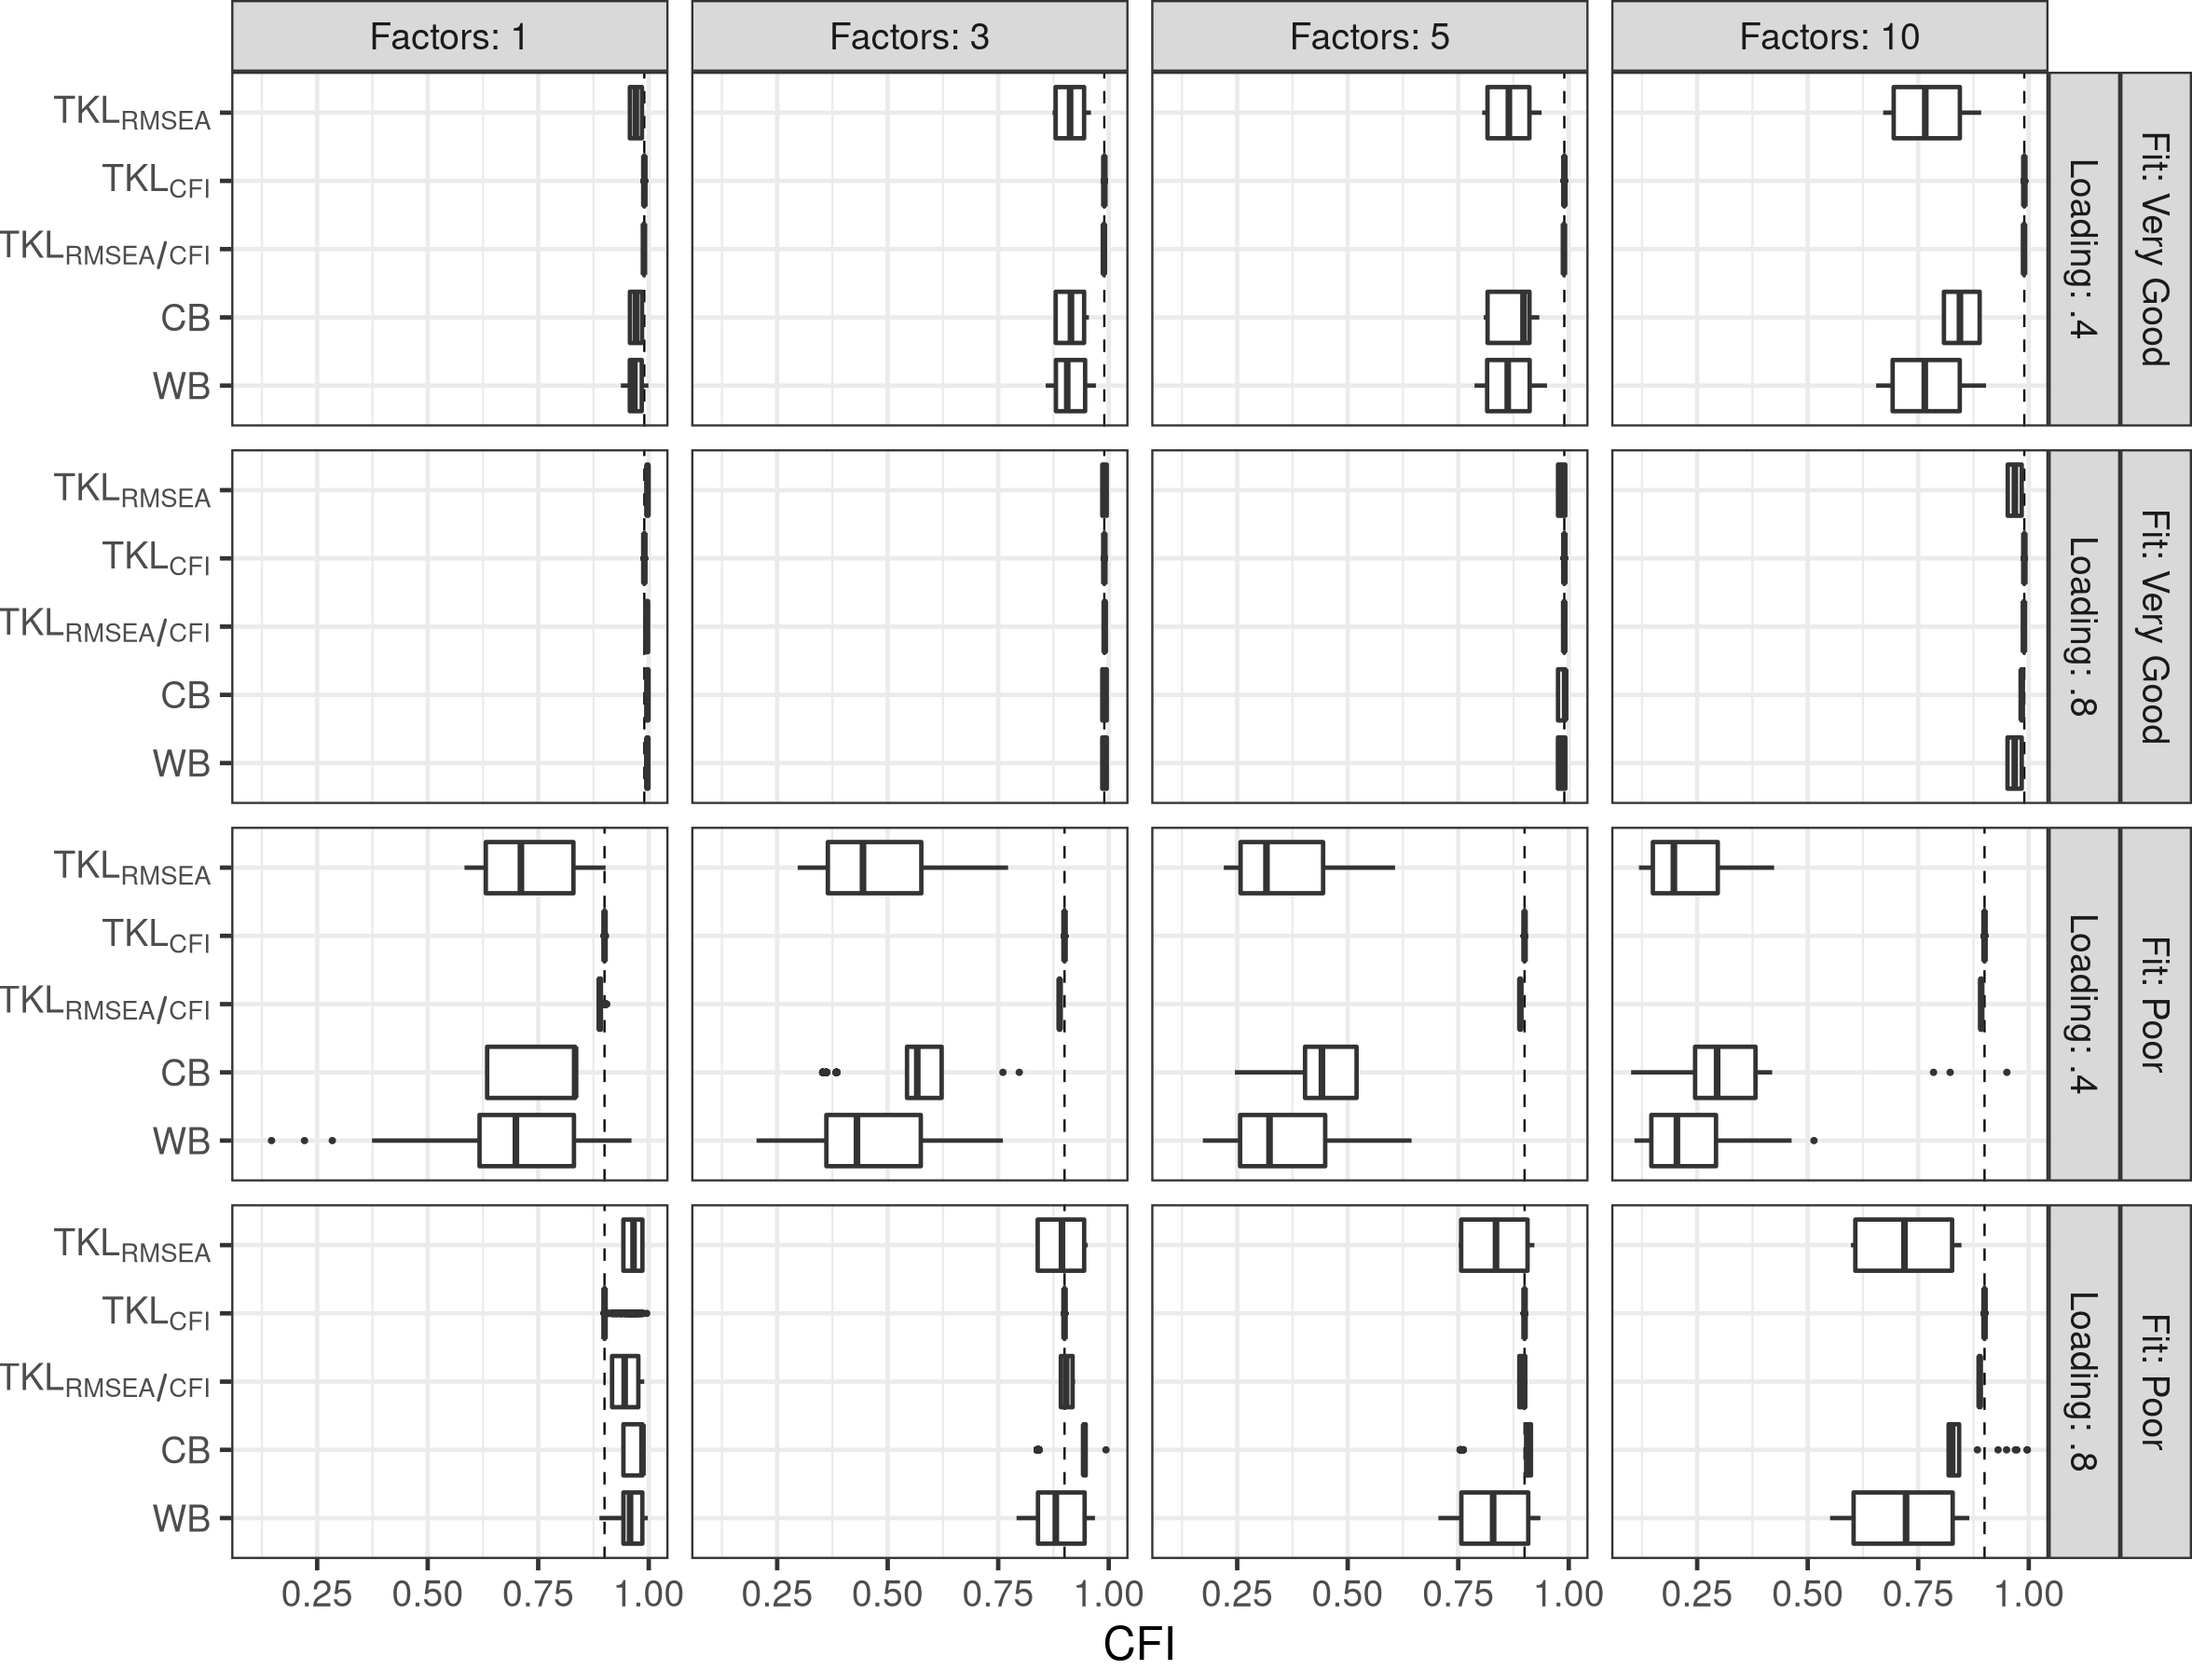
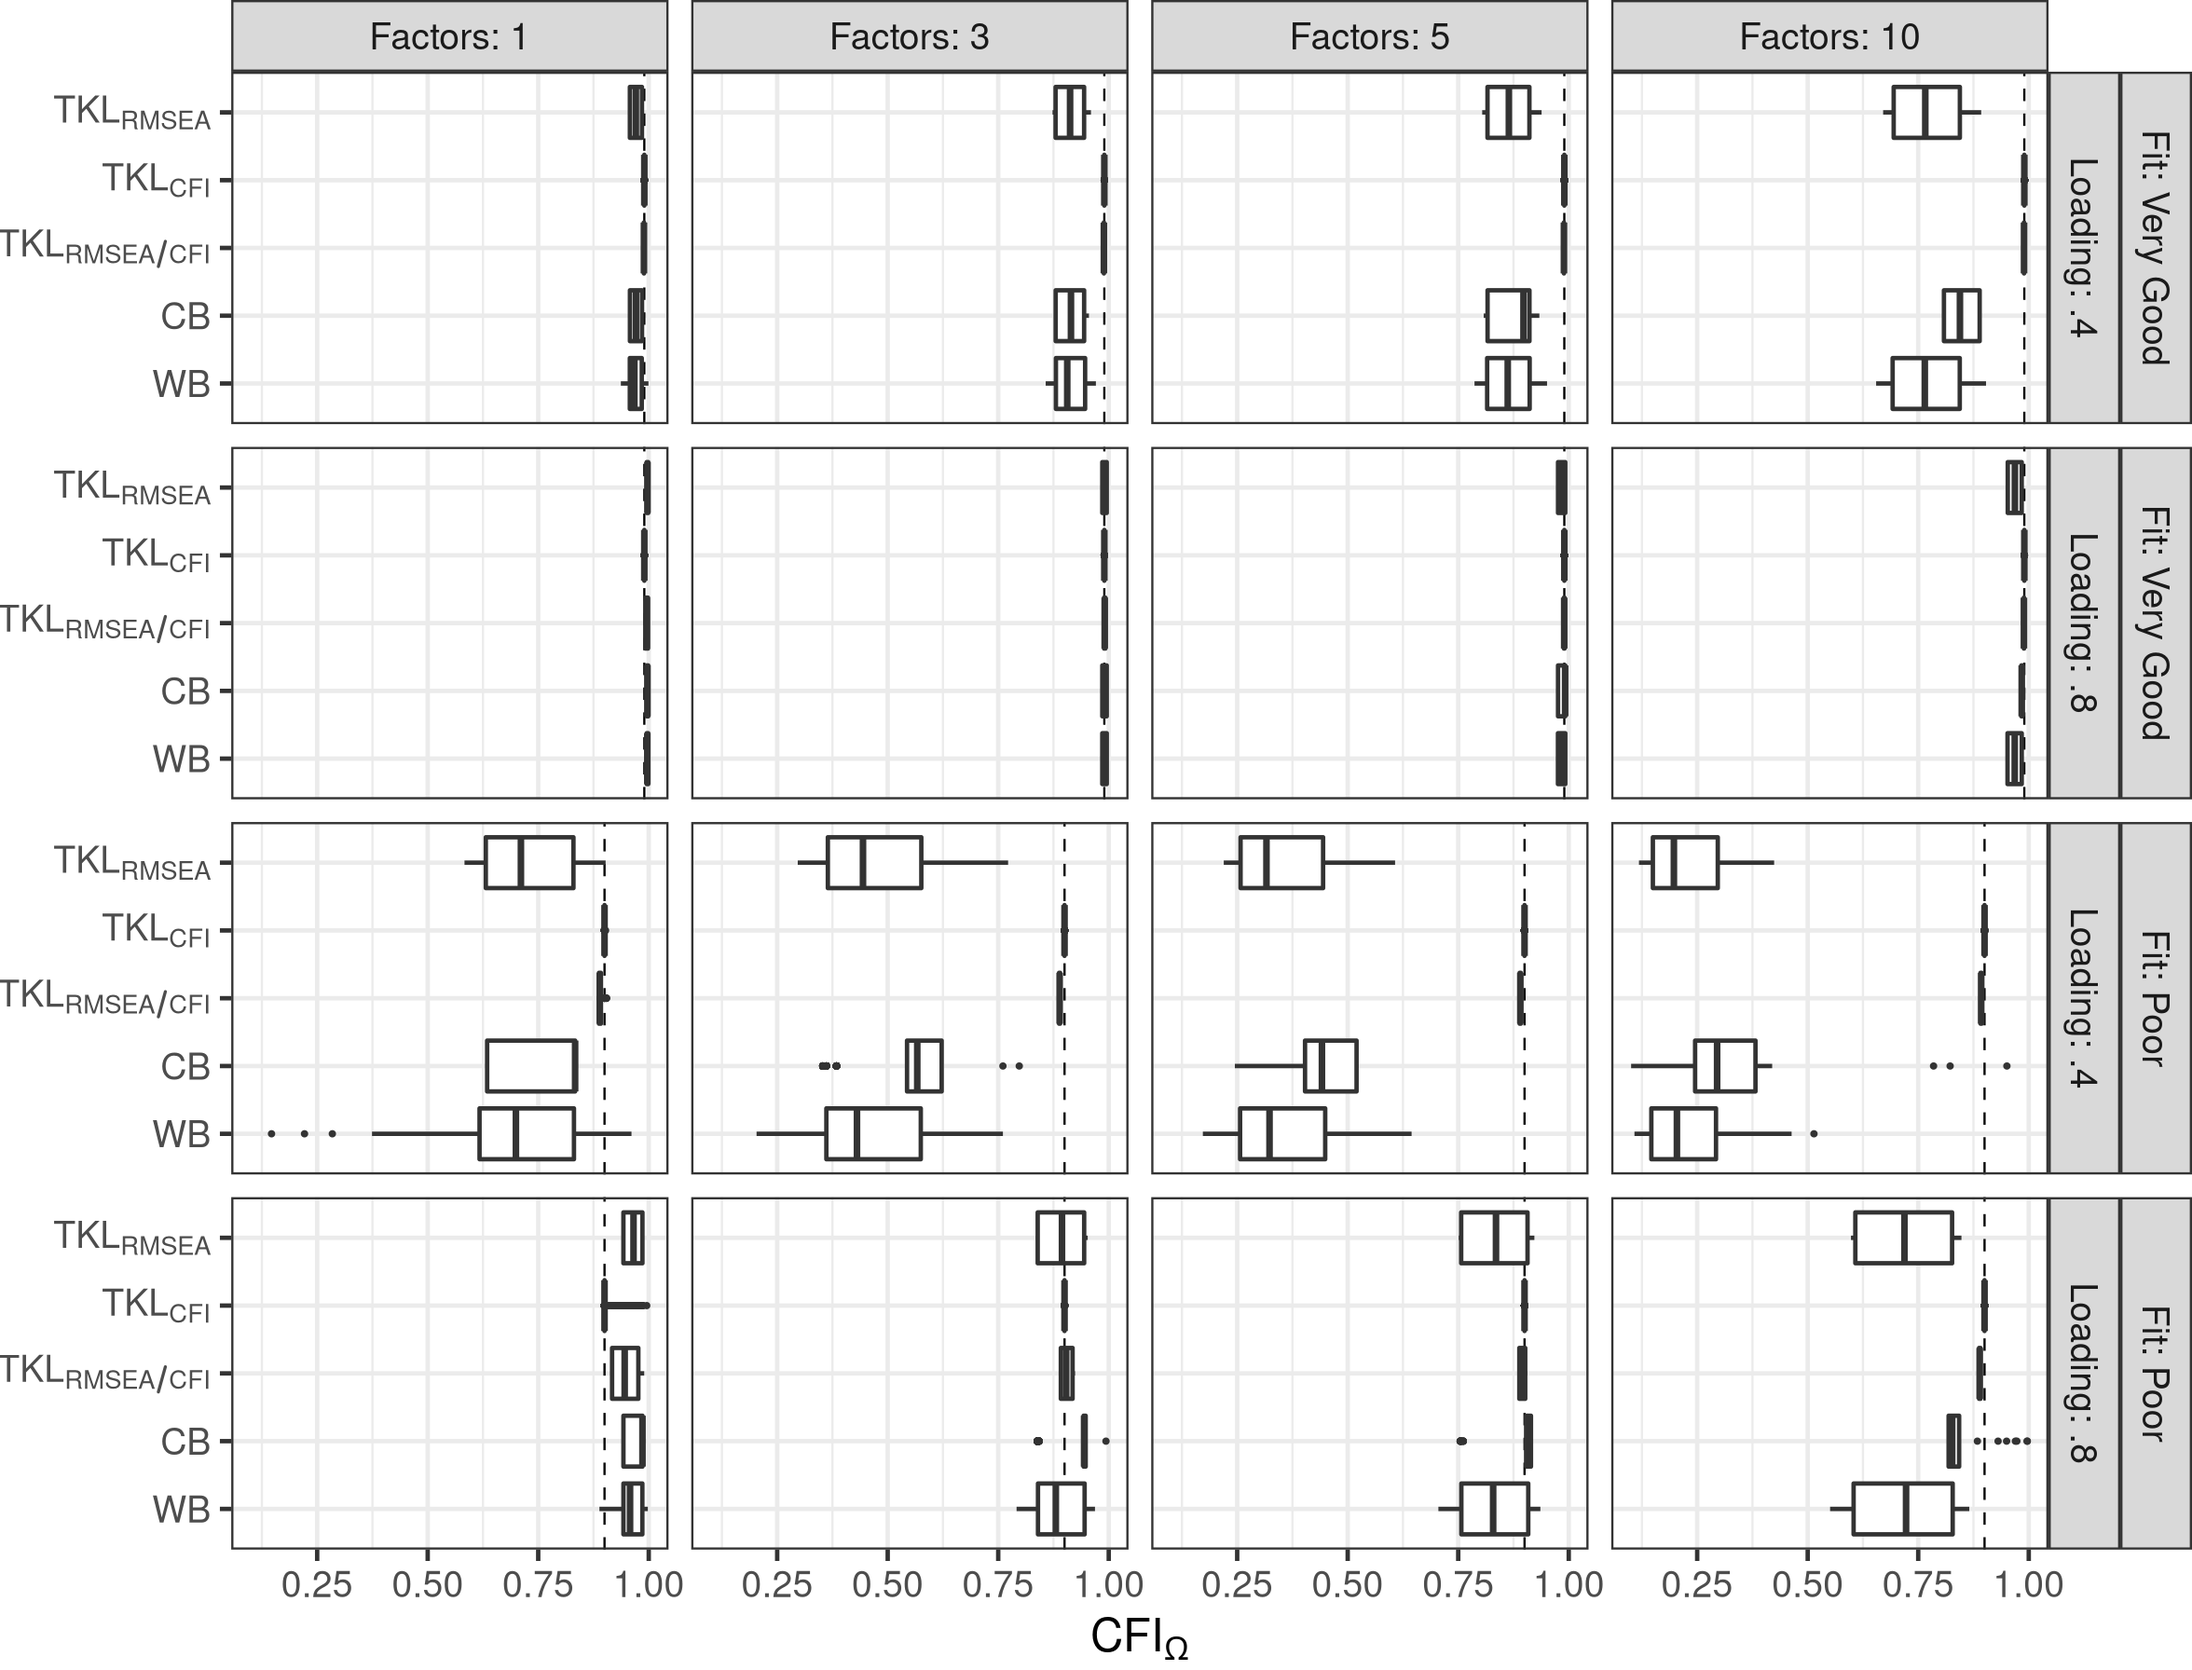
WIP

diff --git a/template.tex b/template.tex
@@ -20,29 +20,30 @@
 \DeclareMathOperator{\dg}{\textrm{dg}}
 \DeclareMathOperator{\vecs}{vecs}
 \DeclareMathOperator{\vech}{vec}
-\DeclareMathOperator{\RMSEA}{\textrm{RMSEA}}
-\DeclareMathOperator{\CFI}{\textrm{CFI}}
 
-\DeclareMathOperator{\TKLrmsea}{\textrm{TKL}_{\textrm{RMSEA}}}
-\DeclareMathOperator{\TKLcfi}{\textrm{TKL}_{\textrm{CFI}}}
-\DeclareMathOperator{\TKLrmseacfi}{\textrm{TKL}_{\textrm{RMSEA/CFI}}}
+\newcommand{\RMSEA}{\textrm{RMSEA}}
+\newcommand{\CFI}{\textrm{CFI}}
 
-\DeclareMathOperator{\bSigma}{\bm{\Sigma}}
-\DeclareMathOperator{\bOmega}{\bm{\Omega}}
-\DeclareMathOperator{\bOmegaHat}{\hat{\bm{\Omega}}}
+\newcommand{\TKLrmsea}{\textrm{TKL}_{\textrm{RMSEA}}}
+\newcommand{\TKLcfi}{\textrm{TKL}_{\textrm{CFI}}}
+\newcommand{\TKLrmseacfi}{\textrm{TKL}_{\textrm{RMSEA/CFI}}}
 
-\DeclareMathOperator{\rmseaDelta}{\textrm{RMSEA}_{\Delta}}
-\DeclareMathOperator{\cfiDelta}{\textrm{CFI}_{\Delta}}
+\newcommand{\bSigma}{\bm{\Sigma}}
+\newcommand{\bOmega}{\bm{\Omega}}
+\newcommand{\bOmegaHat}{\hat{\bm{\Omega}}}
 
-\DeclareMathOperator{\rmseaOmega}{\textrm{RMSEA}_{\bm{\Omega}}}
-\DeclareMathOperator{\cfiOmega}{\textrm{CFI}_{\bm{\Omega}}}
-\DeclareMathOperator{\tliOmega}{\textrm{TLI}_{\bm{\Omega}}}
-\DeclareMathOperator{\crmrOmega}{\textrm{CRMR}_{\bm{\Omega}}}
+\newcommand{\rmseaDelta}{\textrm{RMSEA}_{\Delta}}
+\newcommand{\cfiDelta}{\textrm{CFI}_{\Delta}}
 
-\DeclareMathOperator{\rmseaOmegaHat}{\textrm{RMSEA}_{\hat{\bm{\Omega}}}}
-\DeclareMathOperator{\cfiOmegaHat}{\textrm{CFI}_{\hat{\bm{\Omega}}}}
-\DeclareMathOperator{\tliOmegaHat}{\textrm{TLI}_{\hat{\bm{\Omega}}}}
-\DeclareMathOperator{\crmrOmegaHat}{\textrm{CRMR}_{\hat{\bm{\Omega}}}}
+\newcommand{\rmseaOmega}{\textrm{RMSEA}_{\bm{\Omega}}}
+\newcommand{\cfiOmega}{\textrm{CFI}_{\bm{\Omega}}}
+\newcommand{\tliOmega}{\textrm{TLI}_{\bm{\Omega}}}
+\newcommand{\crmrOmega}{\textrm{CRMR}_{\bm{\Omega}}}
+
+\newcommand{\rmseaOmegaHat}{\textrm{RMSEA}_{\hat{\bm{\Omega}}}}
+\newcommand{\cfiOmegaHat}{\textrm{CFI}_{\hat{\bm{\Omega}}}}
+\newcommand{\tliOmegaHat}{\textrm{TLI}_{\hat{\bm{\Omega}}}}
+\newcommand{\crmrOmegaHat}{\textrm{CRMR}_{\hat{\bm{\Omega}}}}
 
 \sisetup{group-separator = {,}, group-minimum-digits = 4}
 
